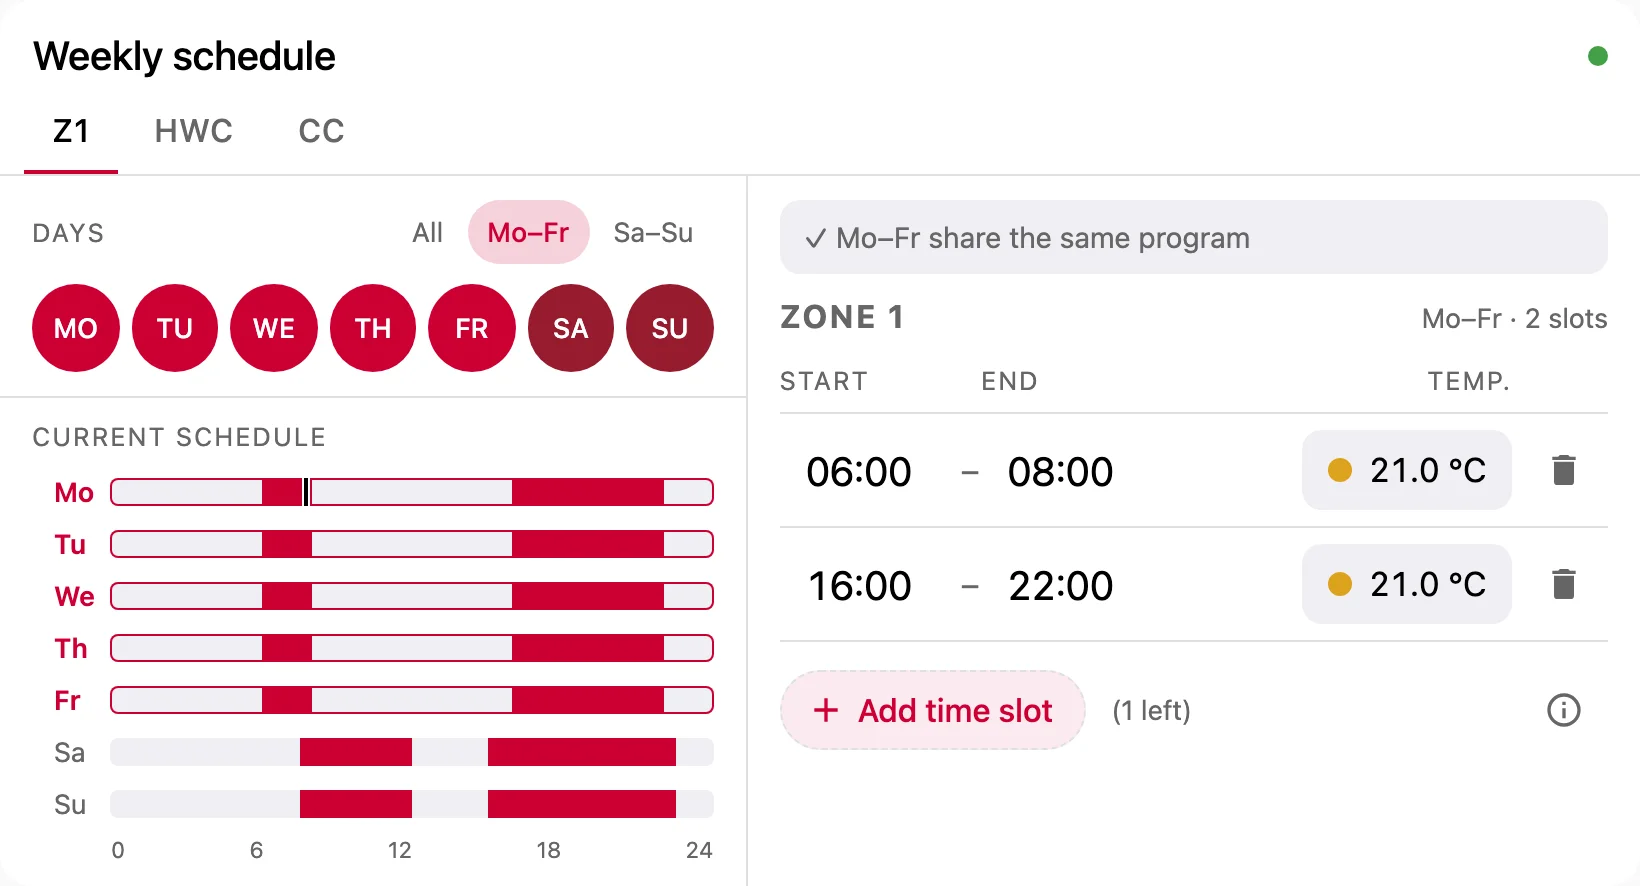
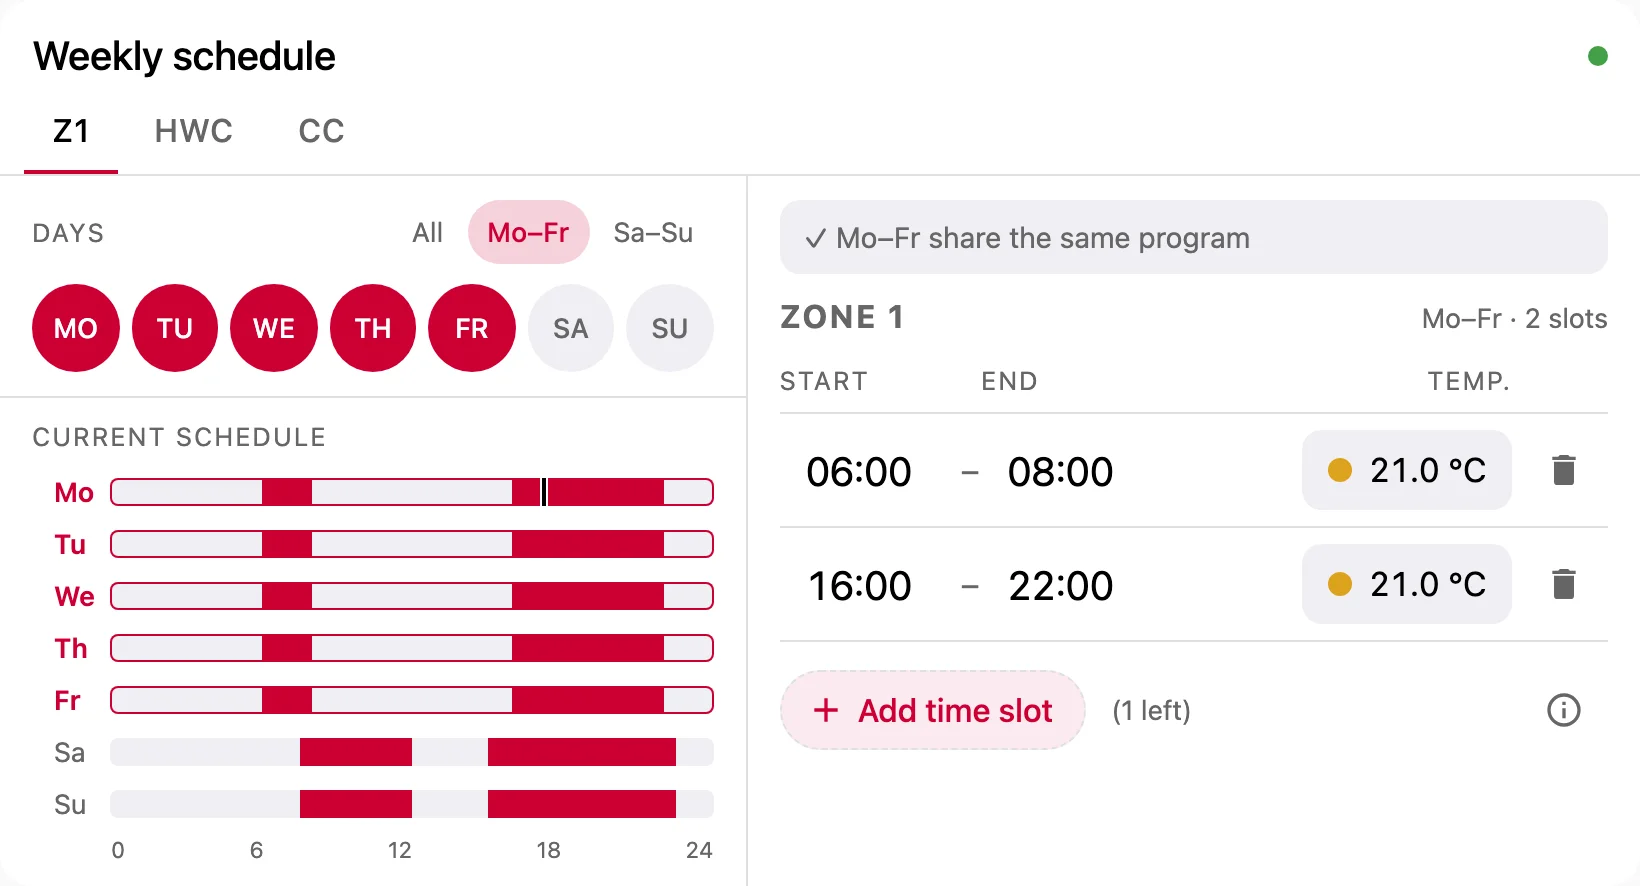
saunier-duval theme: unselected days grey for clearer contrast

Changed region(s): [[0.311, 0.3047, 0.4354, 0.4266], [0.311, 0.5485, 0.3421, 0.579]]

diff --git a/src/styles.ts b/src/styles.ts
@@ -61,9 +61,7 @@ export const cardStyles = css`
     --etp-busy: #dda21d;
     --etp-warn: #e8711c;
     --etp-error: #db4437;
-    /* unselected days dark red with white text, the add button on light pink */
-    --etp-chip-bg: #971b2f;
-    --etp-chip-text: #fff;
+    /* the add button on light pink */
     --etp-add-bg: #fbeaef;
   }
   /* theme: default - follow the HA theme: primary colour as accent, accent colour for heating times */
@@ -264,8 +262,8 @@ export const cardStyles = css`
     justify-self: center;
     border-radius: 999px;
     border: 1px solid transparent;
-    background: var(--etp-chip-bg, var(--etp-surface-2));
-    color: var(--etp-chip-text, var(--etp-muted));
+    background: var(--etp-surface-2);
+    color: var(--etp-muted);
     font-size: 0.85rem;
     font-weight: 500;
     padding: 0;
